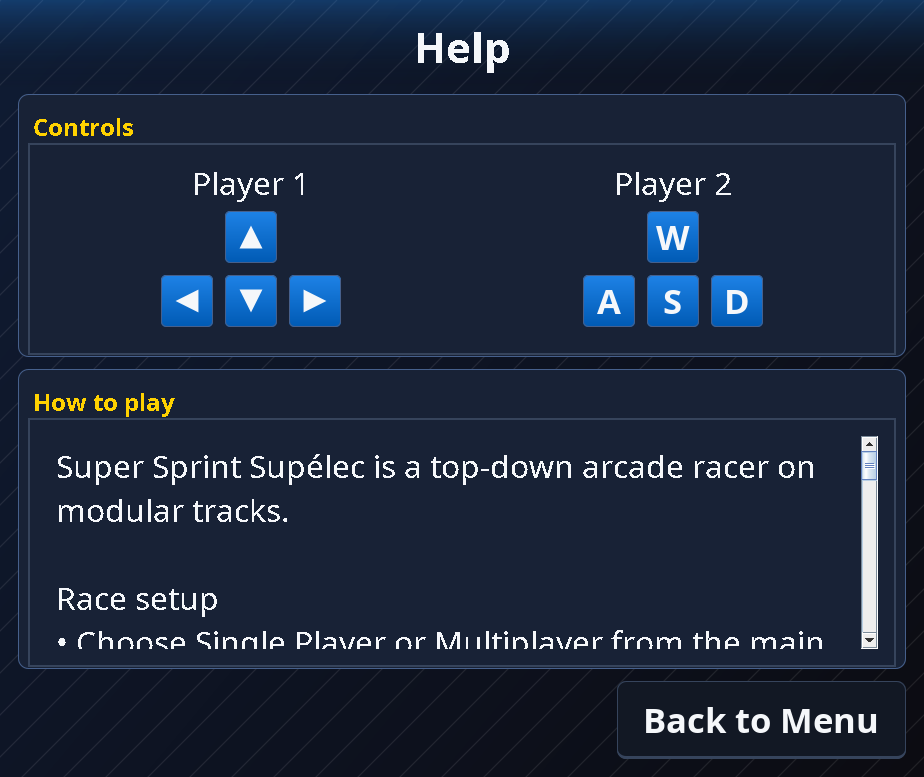
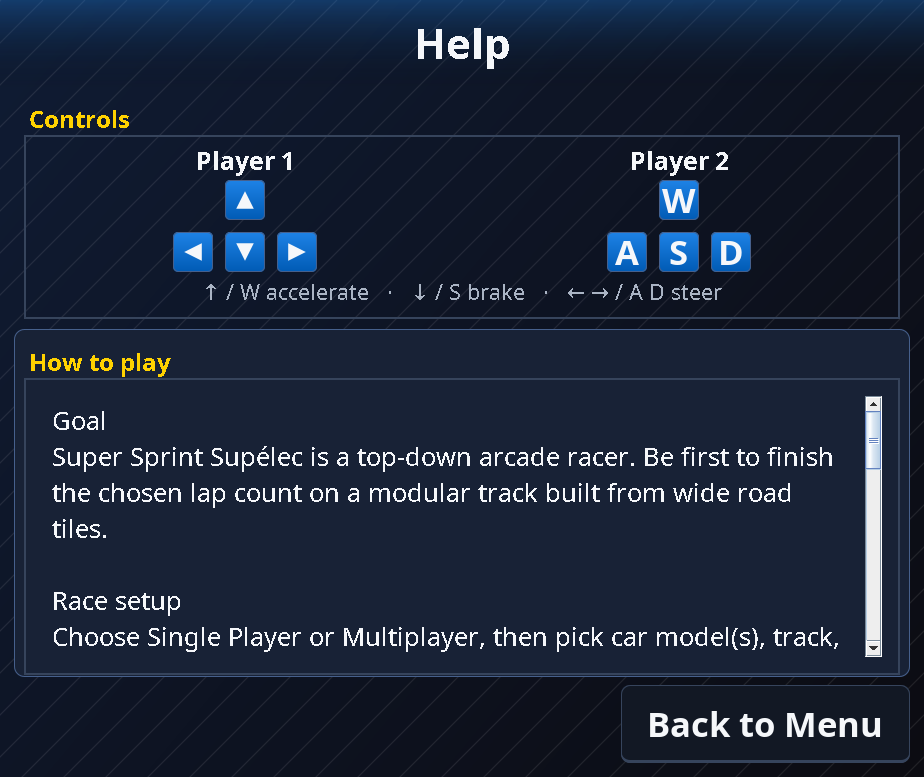
Polish help layout: compact side-by-side keyboards above guide
Keep Player 1/2 key clusters in one Controls row with a shared legend,
and give How to play a scrollable enriched guide covering goal, setup,
driving, bumps, and Hall of Fame.

Changed region(s): [[0.0, 0.1236, 1.0, 0.9884], [0.4545, 0.0309, 0.5455, 0.0927]]

diff --git a/src/view/HelpPanel.java b/src/view/HelpPanel.java
@@ -2,9 +2,10 @@ package view;
 
 import java.awt.BorderLayout;
 import java.awt.Component;
+import java.awt.FlowLayout;
+import java.awt.Font;
 import java.awt.GridLayout;
 
-import javax.swing.Box;
 import javax.swing.JLabel;
 import javax.swing.JPanel;
 import javax.swing.JScrollPane;
@@ -21,48 +22,36 @@ import view.theme.GameTheme;
 import view.ui.BackgroundPanel;
 
 /**
- * Help screen: player keyboards sit side by side above the information text.
+ * Help screen: Player 1 / Player 2 keyboards sit side by side above an enriched
+ * How to play guide.
  */
 public class HelpPanel extends BackgroundPanel {
 
 	private static final long serialVersionUID = 1L;
 
-	private static final String DEFAULT_INFO_BODY =
-			"Super Sprint Supélec is a top-down arcade racer on modular tracks.\n\n"
-					+ "Race setup\n"
-					+ "• Choose Single Player or Multiplayer from the main menu.\n"
-					+ "• Pick a car model, track, and lap count before starting.\n"
-					+ "• Empty grid slots are filled by AI opponents.\n\n"
-					+ "On the track\n"
-					+ "• Stay on the asphalt — leaving the lane cuts your speed.\n"
-					+ "• Cross the yellow finish line in the racing direction to count laps.\n"
-					+ "• Cars can bump each other; contact mixes speed and heading briefly.\n\n"
-					+ "Winning & Hall of Fame\n"
-					+ "• First to complete the chosen lap count wins.\n"
-					+ "• Human winners who place can save a name to the Hall of Fame.\n"
-					+ "• Rankings use mean lap time (total time ÷ laps), so different race lengths stay comparable.\n\n"
-					+ "Project\n"
-					+ "Software Project 2014/2015 — Sequence 6 (Supélec). Maintained with English UI and a single-window shell.";
-
 	private static final String TITLE = ConfigLoader.getString("messages.help.dialog.title", "Help");
 	private static final String CONTROLS_TITLE = ConfigLoader.getString("messages.help.controls.title", "Controls");
 	private static final String PLAYER_ONE = ConfigLoader.getString("messages.help.player.one", "Player 1");
 	private static final String PLAYER_TWO = ConfigLoader.getString("messages.help.player.two", "Player 2");
+	private static final String LEGEND = ConfigLoader.getString(
+			"messages.help.controls.legend",
+			"↑ / W accelerate   ·   ↓ / S brake   ·   ← → / A D steer");
 	private static final String INFO_TITLE = ConfigLoader.getString("messages.help.info.title", "How to play");
-	private static final String INFO_BODY = ConfigLoader.getMessage("messages.help.info.body", DEFAULT_INFO_BODY);
 	private static final String CLOSE = ConfigLoader.getString("messages.help.button.close", "Back to Menu");
+	private static final String INFO_BODY = buildInfoBody();
 
-	private static final int PANEL_INSET = 18;
-	private static final int SECTION_GAP = 12;
-	private static final int PLAYER_LABEL_GAP = 6;
+	private static final int PANEL_INSET = 14;
+	private static final int SECTION_GAP = 8;
+	private static final int PLAYER_LABEL_GAP = 2;
 	private static final int BUTTON_WIDTH = 200;
 	private static final int BUTTON_HEIGHT = 54;
 	private static final int SCROLL_UNIT = 16;
-	private static final int HELP_KEY_SIZE = 36;
+	private static final int HELP_KEY_SIZE = 28;
 
 	private final ArcadeButton closeButton;
-	private final JTextArea infoArea;
 	private final JPanel keyboardRow;
+	private final JLabel legendLabel;
+	private final JTextArea infoArea;
 
 	public HelpPanel(Component scaleContext, Runnable onClose) {
 		super(BackgroundPanel.Style.SCREEN);
@@ -74,12 +63,25 @@ public class HelpPanel extends BackgroundPanel {
 		JPanel body = new JPanel(new BorderLayout(0, SECTION_GAP));
 		body.setOpaque(false);
 
-		GlassCard controlsCard = new GlassCard(new BorderLayout(), scaleContext, CONTROLS_TITLE);
+		JPanel controlsCard = new JPanel(new BorderLayout(0, 4));
 		controlsCard.setOpaque(false);
-		keyboardRow = new JPanel(new GridLayout(1, 2, SECTION_GAP, 0));
+		controlsCard.setBorder(javax.swing.BorderFactory.createCompoundBorder(
+				ThemedPanel.sectionBorder(CONTROLS_TITLE, scaleContext),
+				new EmptyBorder(4, 10, 8, 10)));
+
+		keyboardRow = new JPanel(new GridLayout(1, 2, 20, 0));
 		keyboardRow.setOpaque(false);
 		rebuildKeyboards(scaleContext);
 		controlsCard.add(keyboardRow, BorderLayout.CENTER);
+
+		legendLabel = ThemedPanel.createLabel(LEGEND, scaleContext);
+		legendLabel.setHorizontalAlignment(JLabel.CENTER);
+		legendLabel.setForeground(GameTheme.TEXT_MUTED);
+		applyLegendFont(scaleContext);
+		JPanel legendRow = new JPanel(new FlowLayout(FlowLayout.CENTER, 0, 0));
+		legendRow.setOpaque(false);
+		legendRow.add(legendLabel);
+		controlsCard.add(legendRow, BorderLayout.SOUTH);
 		body.add(controlsCard, BorderLayout.NORTH);
 
 		GlassCard infoCard = new GlassCard(new BorderLayout(), scaleContext, INFO_TITLE);
@@ -90,10 +92,9 @@ public class HelpPanel extends BackgroundPanel {
 		infoArea.setFocusable(false);
 		infoArea.setLineWrap(true);
 		infoArea.setWrapStyleWord(true);
-		infoArea.setRows(Math.min(16, INFO_BODY.split("\n", -1).length + 2));
-		infoArea.setFont(GameTheme.scaled(GameTheme.FONT_BODY, scaleContext));
+		infoArea.setFont(scaledInfoFont(scaleContext));
 		infoArea.setForeground(GameTheme.TEXT_PRIMARY);
-		infoArea.setBorder(new EmptyBorder(8, 10, 14, 10));
+		infoArea.setBorder(new EmptyBorder(6, 10, 12, 10));
 		infoCard.add(wrapScroll(infoArea), BorderLayout.CENTER);
 		body.add(infoCard, BorderLayout.CENTER);
 
@@ -109,7 +110,8 @@ public class HelpPanel extends BackgroundPanel {
 
 	public void applyScaledMetrics(Component scaleContext) {
 		closeButton.applyScaledSize(scaleContext, BUTTON_WIDTH, BUTTON_HEIGHT);
-		infoArea.setFont(GameTheme.scaled(GameTheme.FONT_BODY, scaleContext));
+		infoArea.setFont(scaledInfoFont(scaleContext));
+		applyLegendFont(scaleContext);
 		rebuildKeyboards(scaleContext);
 		revalidate();
 		repaint();
@@ -120,6 +122,60 @@ public class HelpPanel extends BackgroundPanel {
 		keyboardRow.add(buildPlayerPanel(scaleContext, PLAYER_ONE, KeyboardPanel.Layout.ARROWS));
 		keyboardRow.add(buildPlayerPanel(scaleContext, PLAYER_TWO, KeyboardPanel.Layout.WASD));
 		keyboardRow.revalidate();
+	}
+
+	private void applyLegendFont(Component context) {
+		Font body = GameTheme.scaled(GameTheme.FONT_BODY, context);
+		float size = Math.max(11f, body.getSize2D() * 0.68f);
+		legendLabel.setFont(body.deriveFont(Font.PLAIN, size));
+	}
+
+	private static Font scaledInfoFont(Component context) {
+		Font body = GameTheme.scaled(GameTheme.FONT_BODY, context);
+		float size = Math.max(13f, body.getSize2D() * 0.8f);
+		return body.deriveFont(Font.PLAIN, size);
+	}
+
+	private static String buildInfoBody() {
+		return section(
+				"messages.help.info.goal.title",
+				"Goal",
+				"messages.help.info.goal.body",
+				"Be first to finish the chosen lap count on a modular top-down track.")
+				+ "\n\n"
+				+ section(
+						"messages.help.info.setup.title",
+						"Race setup",
+						"messages.help.info.setup.body",
+						"Pick Single Player or Multiplayer, then choose car model(s), track, and laps.")
+				+ "\n\n"
+				+ section(
+						"messages.help.info.driving.title",
+						"On the track",
+						"messages.help.info.driving.body",
+						"Stay on the asphalt — leaving the lane cuts speed. Cross the yellow finish line to count a lap.")
+				+ "\n\n"
+				+ section(
+						"messages.help.info.collisions.title",
+						"Bumps",
+						"messages.help.info.collisions.body",
+						"Cars can nudge each other. Contact briefly mixes speed and heading.")
+				+ "\n\n"
+				+ section(
+						"messages.help.info.scoring.title",
+						"Winning & Hall of Fame",
+						"messages.help.info.scoring.body",
+						"First to finish wins. Hall of Fame ranks by mean lap time.")
+				+ "\n\n"
+				+ ConfigLoader.getString(
+						"messages.help.info.project",
+						"Software Project 2014/2015 — Sequence 6 (Supélec). English UI in a single-window shell.");
+	}
+
+	private static String section(String titleKey, String titleFallback, String bodyKey, String bodyFallback) {
+		return ConfigLoader.getString(titleKey, titleFallback)
+				+ "\n"
+				+ ConfigLoader.getMessage(bodyKey, bodyFallback);
 	}
 
 	private static JScrollPane wrapScroll(Component view) {
@@ -138,13 +194,13 @@ public class HelpPanel extends BackgroundPanel {
 		panel.setOpaque(false);
 		JLabel label = ThemedPanel.createLabel(playerLabel, owner);
 		label.setHorizontalAlignment(JLabel.CENTER);
-		label.setFont(GameTheme.scaled(GameTheme.FONT_BODY, owner));
+		Font labelFont = GameTheme.scaled(GameTheme.FONT_BODY, owner);
+		label.setFont(labelFont.deriveFont(Font.BOLD, Math.max(12f, labelFont.getSize2D() * 0.78f)));
 		panel.add(label, BorderLayout.NORTH);
-		JPanel keyboardHolder = new JPanel(new java.awt.FlowLayout(java.awt.FlowLayout.CENTER, 0, 0));
+		JPanel keyboardHolder = new JPanel(new FlowLayout(FlowLayout.CENTER, 0, 0));
 		keyboardHolder.setOpaque(false);
 		keyboardHolder.add(new KeyboardPanel(owner, layout, HELP_KEY_SIZE));
 		panel.add(keyboardHolder, BorderLayout.CENTER);
-		panel.add(Box.createVerticalStrut(4), BorderLayout.SOUTH);
 		return panel;
 	}
 }
